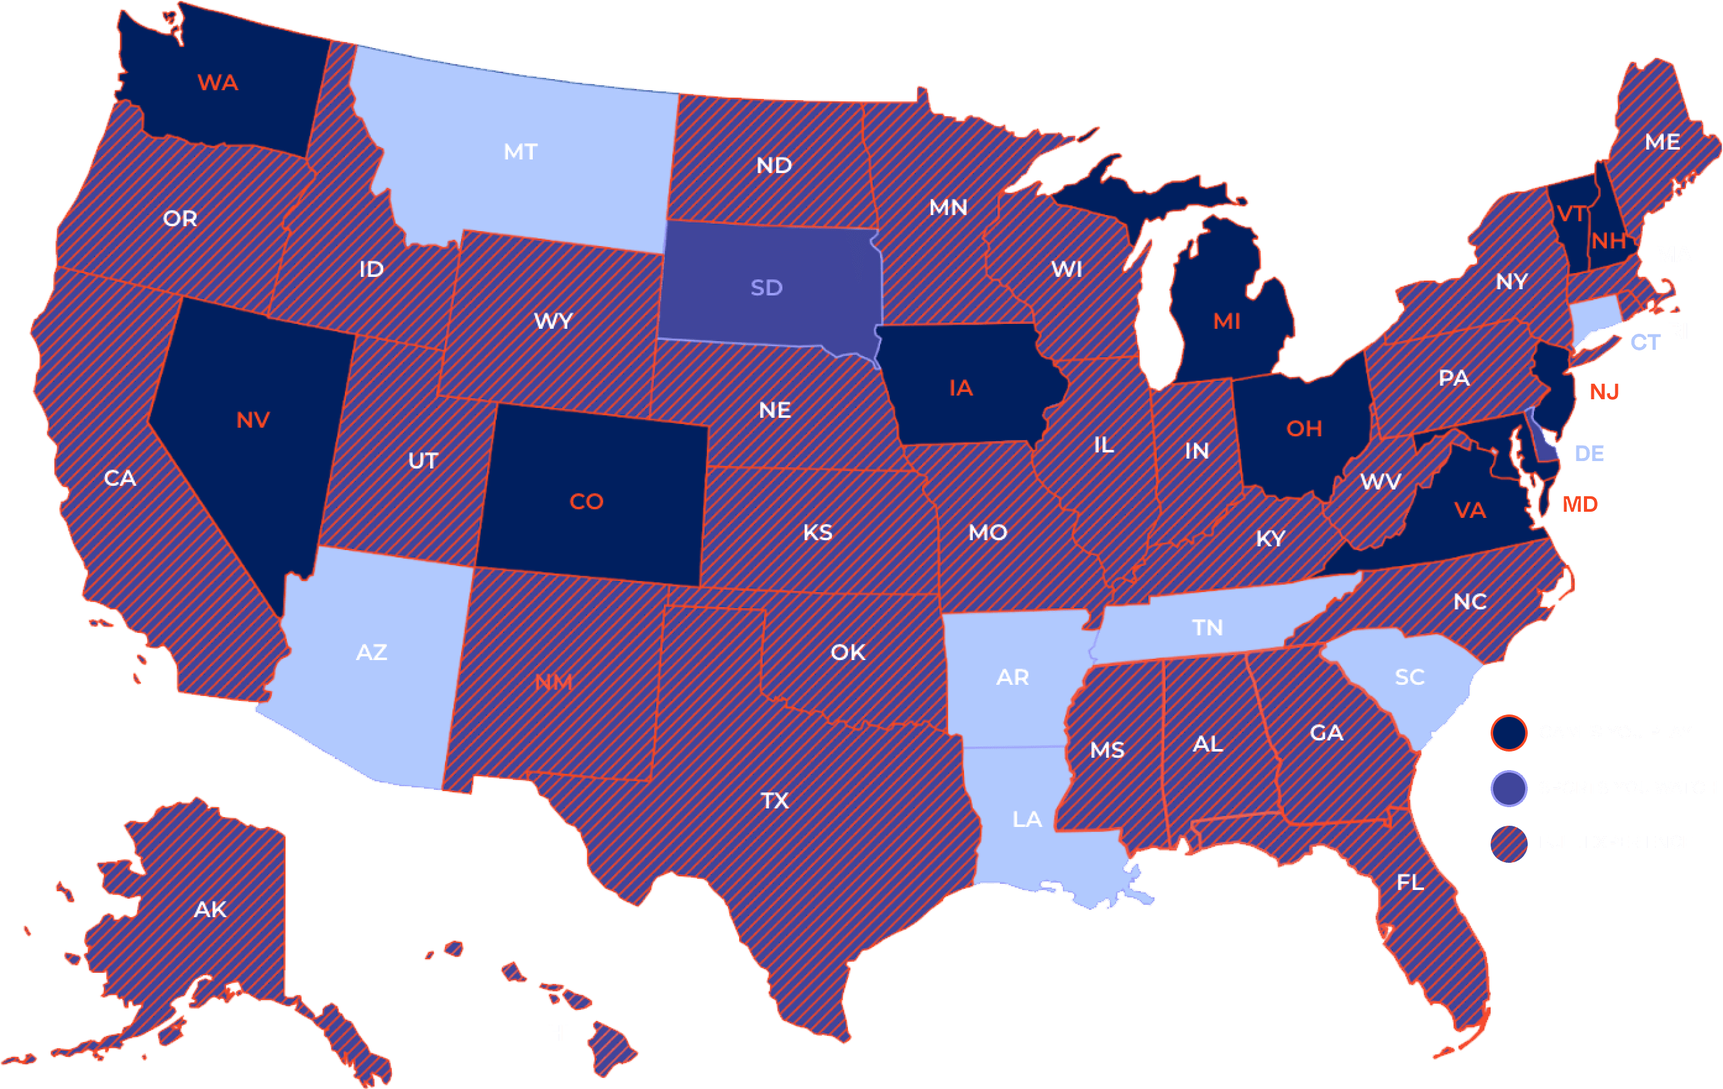
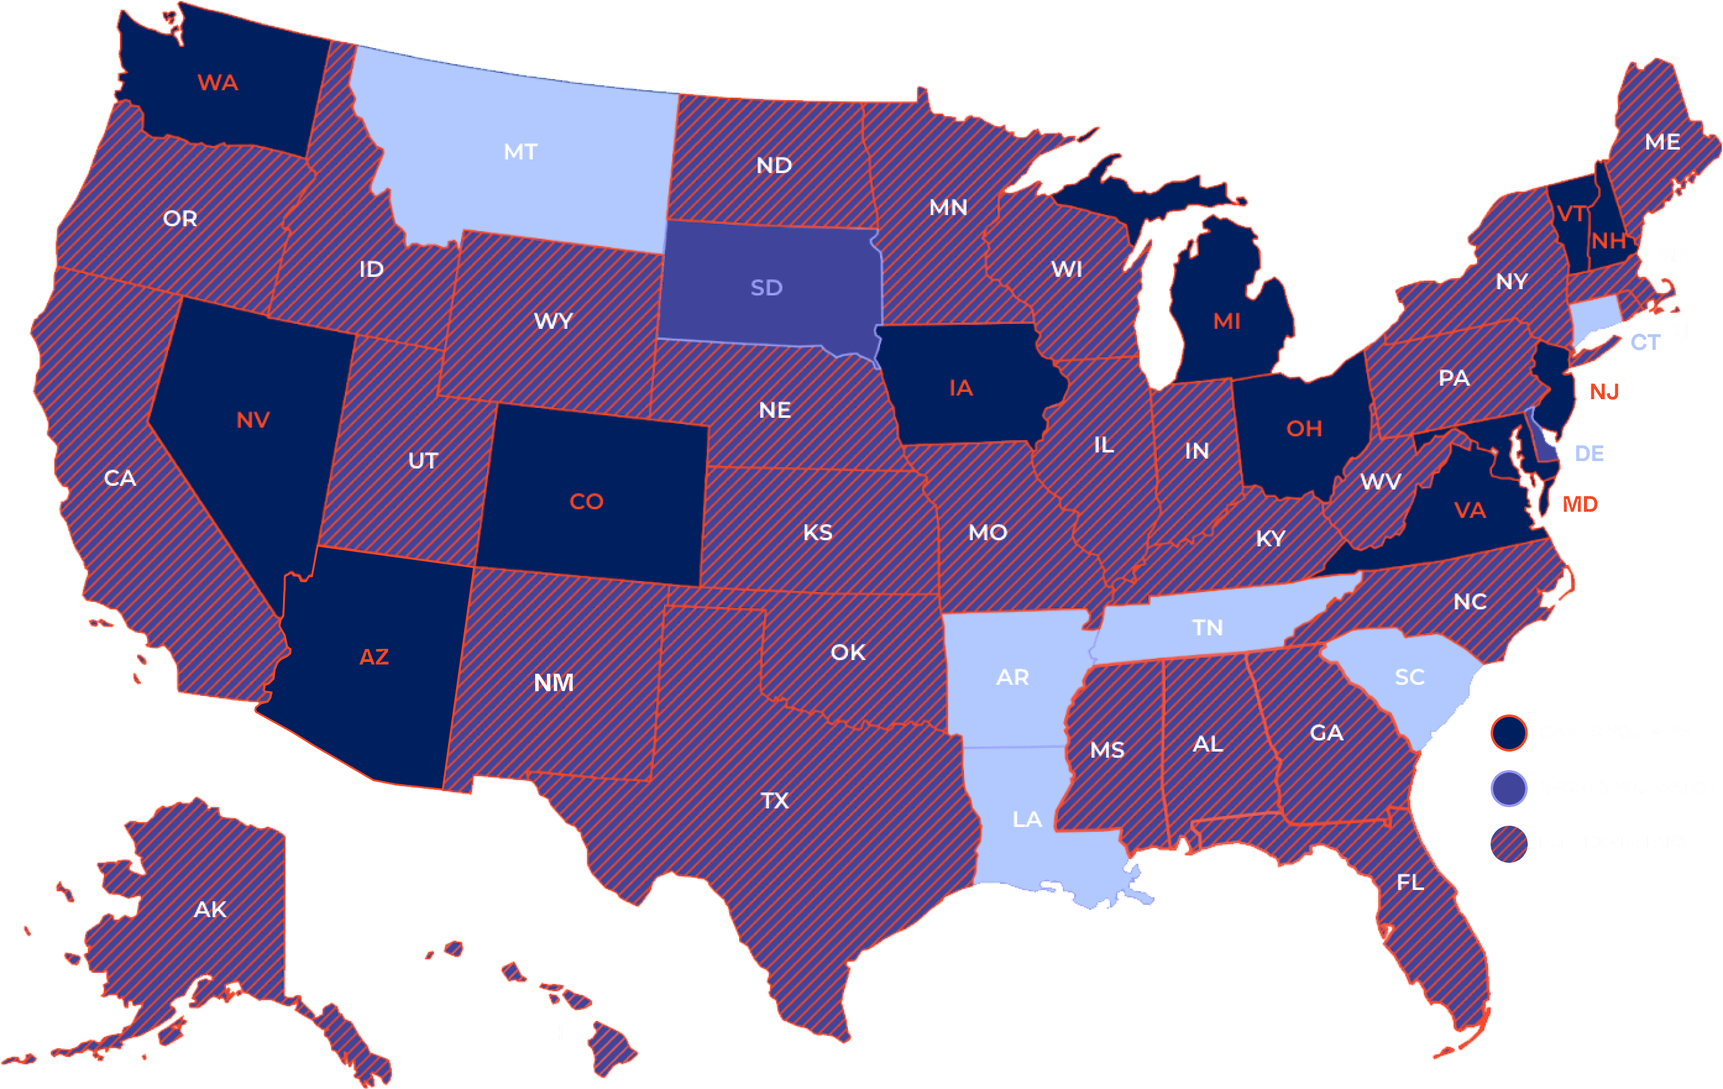
update map states

Changed region(s): [[0.1248, 0.4994, 0.2808, 0.7491], [0.3121, 0.6243, 0.3433, 0.6555]]

diff --git a/dist/scripts.js b/dist/scripts.js
@@ -1,1 +1,1 @@
-(/Android|webOS|iPhone|iPad|iPod|BlackBerry|IEMobile|Opera Mini/i.test(navigator.userAgent)||$(window).width()<575)&&$(".animate").removeClass("animate");let previousY={},previousRatio={};const thresholdArray=e=>Array(e+1).fill(0).map(((a,o)=>o/e||0));function handleIntersection(e,a){e.forEach((e=>{const a=e.boundingClientRect.y,o=e.intersectionRatio;if(e.intersectionRatio>0){let i="";a<previousY[e.target.id]||0===previousY[e.target.id]&&a>0?o>previousRatio[e.target.id]?(i=e.target.id+" Scrolling down enter",$(e.target).addClass("animated-in")):(i=e.target.id+" Scrolling down leave",$(e.target).addClass("animated-out")):a>previousY[e.target.id]&&(o<previousRatio[e.target.id]?(i=e.target.id+" Scrolling up leave",$(e.target).removeClass("animated-in")):(i=e.target.id+" Scrolling up enter",$(e.target).removeClass("animated-out"))),previousY[e.target.id]=a,previousRatio[e.target.id]=o}}))}window.addEventListener("load",(function(){$("#header").addClass("animated");const e=document.querySelectorAll("[data-animable]"),a=new IntersectionObserver(handleIntersection,{root:null,threshold:[.25,.75]});e.forEach((e=>{previousY[e.id]=0,previousRatio[e.id]=0,a.observe(e)})),function(e){e(document).ready((function(){var a,o,i,s;e("video").length&&(e("video").each((function(){e(this).attr("webkit-playsinline",""),e(this).attr("playsinline",""),e(this).attr("muted","muted"),e(this).attr("id","loadvideo"),document.getElementById("loadvideo").load()})),e(window).scroll((function(){e("video").each((function(){var t;1==(a=e(t=this).offset().top,o=a+e(t).outerHeight(),i=e(window).scrollTop(),s=i+e(window).height(),o>i&&a<s)?e(this)[0].play():e(this)[0].pause()}))})))}))}(jQuery);anime.timeline({direction:"normal",autoplay:!0,loop:!0}).add({targets:"#games .container-blocks .blocks",translateY:[0,30],opacity:[0,1],easing:"easeInQuad",duration:400,delay:anime.stagger(50)}).add({targets:"#games .container-blocks .blocks",translateY:30,opacity:1,easing:"easeInQuad",duration:2500,changeComplete:()=>{$("#games .container-blocks.first").addClass("hide"),$("#games .container-blocks.second").removeClass("hide")}}).add({targets:"#games .container-blocks .blocks",translateY:[0,30],opacity:[0,1],easing:"easeInQuad",duration:400,delay:anime.stagger(50)}).add({targets:"#games .container-blocks .blocks",translateY:30,opacity:1,easing:"easeInQuad",duration:2500,changeComplete:()=>{$("#games .container-blocks.first").removeClass("hide"),$("#games .container-blocks.second").addClass("hide")}});var o="https://www.linkedin.com/jobs/view/3472080133/";$("#states-select").change((function(){"select"==$(this).val()?($("#submit-state").prop("disabled",!0),$(".option-display.games").addClass("hide"),$(".option-display.sports").addClass("hide"),$(".option-display.full").addClass("hide"),$(".option-display.not-offered").addClass("hide"),$(".contact-mail").addClass("hide"),$("#states-form").attr("action",o),$(".disclaimer").removeClass("show")):"WA"==$(this).val()||"NV"==$(this).val()||"CO"==$(this).val()||"IA"==$(this).val()||"MI"==$(this).val()||"OH"==$(this).val()||"VA"==$(this).val()||"MD"==$(this).val()||"NJ"==$(this).val()||"NH"==$(this).val()||"VT"==$(this).val()?($(".option-display.games").removeClass("hide"),$(".option-display.sports").addClass("hide"),$(".option-display.full").addClass("hide"),$(".option-display.not-offered").addClass("hide"),$("#submit-state").prop("disabled",!1),$(".contact-mail").addClass("hide"),$("#states-form").attr("action",o),$(".disclaimer").removeClass("show")):"SD"==$(this).val()||"DE"==$(this).val()?($(".option-display.sports").removeClass("hide"),$(".option-display.games").addClass("hide"),$(".option-display.full").addClass("hide"),$(".option-display.not-offered").addClass("hide"),$("#submit-state").prop("disabled",!1),$(".contact-mail").addClass("hide"),$("#states-form").attr("action",o),$(".disclaimer").removeClass("show")):"AZ"==$(this).val()||"MT"==$(this).val()||"AR"==$(this).val()||"LA"==$(this).val()||"TN"==$(this).val()||"SC"==$(this).val()||"CT"==$(this).val()?($(".option-display.sports").addClass("hide"),$(".option-display.games").addClass("hide"),$(".option-display.full").addClass("hide"),$(".option-display.not-offered").removeClass("hide"),$("#submit-state").prop("disabled",!0),$(".contact-mail").addClass("hide"),$("#states-form").attr("action",o),$(".disclaimer").removeClass("show")):"CA"==$(this).val()?($(".option-display.full").removeClass("hide"),$(".option-display.sports").addClass("hide"),$(".option-display.games").addClass("hide"),$(".option-display.not-offered").addClass("hide"),$("#submit-state").prop("disabled",!1),$("#states-form").attr("action","https://www.linkedin.com/jobs/view/3430512566/?eBP=JOB_SEARCH_ORGANIC&recommendedFlavor=IN_NETWORK&refId=G50fpkbGhNNLn3sug3eRlA%3D%3D&trackingId=3IpRdQFPy%2F6P4iAy1VswyQ%3D%3D&trk=flagship3_search_srp_jobs"),$(".contact-mail").addClass("hide"),$(".disclaimer").addClass("show"),$(".contact-mail.california").removeClass("hide")):"PA"==$(this).val()?($(".option-display.full").removeClass("hide"),$(".option-display.sports").addClass("hide"),$(".option-display.games").addClass("hide"),$(".option-display.not-offered").addClass("hide"),$("#submit-state").prop("disabled",!1),$("#states-form").attr("action","https://www.linkedin.com/jobs/view/3431737768/?eBP=JOB_SEARCH_ORGANIC&recommendedFlavor=IN_NETWORK&refId=G50fpkbGhNNLn3sug3eRlA%3D%3D&trackingId=chJhbG4eDtQgGGABW2PVsQ%3D%3D&trk=flagship3_search_srp_jobs"),$(".contact-mail").addClass("hide"),$(".disclaimer").addClass("show"),$(".contact-mail.pennsylvania").removeClass("hide")):($(".option-display.full").removeClass("hide"),$(".option-display.sports").addClass("hide"),$(".option-display.games").addClass("hide"),$(".option-display.not-offered").addClass("hide"),$("#submit-state").prop("disabled",!1),$(".contact-mail").addClass("hide"),$("#states-form").attr("action",o),$(".disclaimer").removeClass("show"))}))})),$(".faq-heading").click((function(){$(this).parent("li").toggleClass("the-active").find(".faq-text").slideToggle()})),$("#video .volume").on("click",(function(){$("#video .placeholder").prop("muted")?($("#video .placeholder").prop("muted",!1),$("#video .volume").removeClass("muted")):($("#video .placeholder").prop("muted",!0),$("#video .volume").addClass("muted"))}));var videos=['<iframe\n      id="video-0"\n      class="video-iframe"\n      width="100%"\n      height="300"\n      allowscriptaccess="always"\n      src="https://www.youtube.com/embed/DjZWyOPQJcU?start=1"\n      frameborder="0"\n      allow="accelerometer; autoplay; clipboard-write; encrypted-media; gyroscope; picture-in-picture"\n      allowfullscreen\n    ></iframe>','<iframe\n      id="video-1"\n      class="video-iframe"\n      src="//content.jwplatform.com/players/ZppCgNir-YrbGYzGZ.html"\n      width="100%"\n      height="300"\n      allowscriptaccess="always"\n      frameborder="0"\n      allow="accelerometer; clipboard-write; encrypted-media; gyroscope; picture-in-picture"\n      allowfullscreen\n    ></iframe>','<iframe\n      id="video-2"\n      class="video-iframe"\n      src="https://www.youtube.com/embed/amHTD3bF1Zo"\n      width="100%"\n      height="300"\n      allowscriptaccess="always"\n      frameborder="0"\n      allow="accelerometer; autoplay; clipboard-write; encrypted-media; gyroscope; picture-in-picture"\n      allowfullscreen\n  ></iframe>','<iframe\n      id="video-3"\n      class="video-iframe"\n      src="https://www.bloomberg.com/multimedia/api/embed/iframe?id=b2d1e5d1-4198-41d4-a6bf-03d3d7f3d86d"\n      width="100%"\n      height="300"\n      allowscriptaccess="always"\n      frameborder="0"\n      allow="accelerometer; autoplay; clipboard-write; encrypted-media; gyroscope; picture-in-picture"\n      allowfullscreen\n    ></iframe>'];$((function(){$(".playvideo").on("click",(function(){$(this).next(".video-holder").css("display","none"),$(this).css("display","none");var e=$(this).prev(".video-iframe").attr("src").indexOf("?")>-1?"&":"?";$(this).prev(".video-iframe").attr("src",$(this).prev(".video-iframe").attr("src")+e+"autoplay=1")})),$("#carouselExampleCaption").on("slide.bs.carousel",(function(e){$(`#video-${e.from}`).replaceWith(videos[e.from])}))}));var controller=new ScrollMagic.Controller,pinIntroScene=new ScrollMagic.Scene({triggerElement:"#hero.hero-homepage",triggerHook:0,duration:1200}).setPin("#hero.hero-homepage").addTo(controller),ourScene=new ScrollMagic.Scene({duration:3e3,triggerElement:"#hero.hero-homepage",triggerHook:0,offset:300}).setClassToggle(".container-screens.col-one.home","move-up").addTo(controller),ourScene2=new ScrollMagic.Scene({duration:3e3,triggerElement:"#hero.hero-homepage",triggerHook:0,offset:300}).setClassToggle(".container-screens.col-two.home","move-down").addTo(controller),controllerAbout=new ScrollMagic.Controller,pinIntroSceneAbout=new ScrollMagic.Scene({triggerElement:"#hero.hero-about",triggerHook:0,duration:1500}).setPin("#hero.hero-about").addTo(controllerAbout),ourScene3=new ScrollMagic.Scene({duration:3500,triggerElement:"#hero.hero-about",triggerHook:0,offset:300}).setClassToggle(".container-screens.col-one.about","move-up").addTo(controllerAbout),ourScene4=new ScrollMagic.Scene({duration:3500,triggerElement:"#hero.hero-about",triggerHook:0,offset:300}).setClassToggle(".container-screens.col-two.about","move-down").addTo(controllerAbout);$(window).scroll((function(){$(window).scrollTop()>=60?$("#header-nav").addClass("fixed"):$("#header-nav").removeClass("fixed")})),$(".slider-nav").slick({slidesToShow:2,slidesToScroll:1,dots:!1,centerMode:!1,focusOnSelect:!1,arrows:!0,autoplay:!1,autoplaySpeed:6e3,pauseOnHover:!1,draggable:!1,responsive:[{breakpoint:767,settings:{slidesToShow:1}}]}),$(".team-slider").slick({centerMode:!0,centerPadding:"50px",slidesToShow:2,speed:500,autoplay:!0,autoplaySpeed:5e3,pauseOnHover:!1,arrows:!0,draggable:!1,responsive:[{breakpoint:991,settings:{centerMode:!0,centerPadding:"40px",slidesToShow:1}}]}),$(".team-slider").on("beforeChange",(function(e,{slideCount:a},o,i){let s=[i,i-a,i+a].map((e=>`[data-slick-index="${e}"]`)).join(", ");$(".slick-now").removeClass("slick-now"),$(s).next().addClass("slick-now"),$(".prev-now").removeClass("prev-now"),$(s).prev().addClass("prev-now")})),$('[data-slick-index="0"]').addClass("slick-now"),$('[data-slick-index="0"]').prev().addClass("prev-now"),$(document).ready((function(){$("#slider-app").position().top,$(window).height();$(window).on("scroll",(function(){$(window).scrollTop()}))}));
+(/Android|webOS|iPhone|iPad|iPod|BlackBerry|IEMobile|Opera Mini/i.test(navigator.userAgent)||$(window).width()<575)&&$(".animate").removeClass("animate");let previousY={},previousRatio={};const thresholdArray=e=>Array(e+1).fill(0).map(((a,o)=>o/e||0));function handleIntersection(e,a){e.forEach((e=>{const a=e.boundingClientRect.y,o=e.intersectionRatio;if(e.intersectionRatio>0){let i="";a<previousY[e.target.id]||0===previousY[e.target.id]&&a>0?o>previousRatio[e.target.id]?(i=e.target.id+" Scrolling down enter",$(e.target).addClass("animated-in")):(i=e.target.id+" Scrolling down leave",$(e.target).addClass("animated-out")):a>previousY[e.target.id]&&(o<previousRatio[e.target.id]?(i=e.target.id+" Scrolling up leave",$(e.target).removeClass("animated-in")):(i=e.target.id+" Scrolling up enter",$(e.target).removeClass("animated-out"))),previousY[e.target.id]=a,previousRatio[e.target.id]=o}}))}window.addEventListener("load",(function(){$("#header").addClass("animated");const e=document.querySelectorAll("[data-animable]"),a=new IntersectionObserver(handleIntersection,{root:null,threshold:[.25,.75]});e.forEach((e=>{previousY[e.id]=0,previousRatio[e.id]=0,a.observe(e)})),function(e){e(document).ready((function(){var a,o,i,s;e("video").length&&(e("video").each((function(){e(this).attr("webkit-playsinline",""),e(this).attr("playsinline",""),e(this).attr("muted","muted"),e(this).attr("id","loadvideo"),document.getElementById("loadvideo").load()})),e(window).scroll((function(){e("video").each((function(){var t;1==(a=e(t=this).offset().top,o=a+e(t).outerHeight(),i=e(window).scrollTop(),s=i+e(window).height(),o>i&&a<s)?e(this)[0].play():e(this)[0].pause()}))})))}))}(jQuery);anime.timeline({direction:"normal",autoplay:!0,loop:!0}).add({targets:"#games .container-blocks .blocks",translateY:[0,30],opacity:[0,1],easing:"easeInQuad",duration:400,delay:anime.stagger(50)}).add({targets:"#games .container-blocks .blocks",translateY:30,opacity:1,easing:"easeInQuad",duration:2500,changeComplete:()=>{$("#games .container-blocks.first").addClass("hide"),$("#games .container-blocks.second").removeClass("hide")}}).add({targets:"#games .container-blocks .blocks",translateY:[0,30],opacity:[0,1],easing:"easeInQuad",duration:400,delay:anime.stagger(50)}).add({targets:"#games .container-blocks .blocks",translateY:30,opacity:1,easing:"easeInQuad",duration:2500,changeComplete:()=>{$("#games .container-blocks.first").removeClass("hide"),$("#games .container-blocks.second").addClass("hide")}});var o="https://www.linkedin.com/jobs/view/3566908844/";$("#states-select").change((function(){"select"==$(this).val()?($("#submit-state").prop("disabled",!0),$(".option-display.games").addClass("hide"),$(".option-display.sports").addClass("hide"),$(".option-display.full").addClass("hide"),$(".option-display.not-offered").addClass("hide"),$(".contact-mail").addClass("hide"),$("#states-form").attr("action",o),$(".disclaimer").removeClass("show")):"AZ"==$(this).val()||"WA"==$(this).val()||"NV"==$(this).val()||"CO"==$(this).val()||"IA"==$(this).val()||"MI"==$(this).val()||"OH"==$(this).val()||"VA"==$(this).val()||"MD"==$(this).val()||"NJ"==$(this).val()||"NH"==$(this).val()||"VT"==$(this).val()?($(".option-display.games").removeClass("hide"),$(".option-display.sports").addClass("hide"),$(".option-display.full").addClass("hide"),$(".option-display.not-offered").addClass("hide"),$("#submit-state").prop("disabled",!1),$(".contact-mail").addClass("hide"),$("#states-form").attr("action",o),$(".disclaimer").removeClass("show")):"SD"==$(this).val()||"DE"==$(this).val()?($(".option-display.sports").removeClass("hide"),$(".option-display.games").addClass("hide"),$(".option-display.full").addClass("hide"),$(".option-display.not-offered").addClass("hide"),$("#submit-state").prop("disabled",!1),$(".contact-mail").addClass("hide"),$("#states-form").attr("action",o),$(".disclaimer").removeClass("show")):"MT"==$(this).val()||"AR"==$(this).val()||"LA"==$(this).val()||"TN"==$(this).val()||"SC"==$(this).val()||"CT"==$(this).val()?($(".option-display.sports").addClass("hide"),$(".option-display.games").addClass("hide"),$(".option-display.full").addClass("hide"),$(".option-display.not-offered").removeClass("hide"),$("#submit-state").prop("disabled",!0),$(".contact-mail").addClass("hide"),$("#states-form").attr("action",o),$(".disclaimer").removeClass("show")):"CA"==$(this).val()?($(".option-display.full").removeClass("hide"),$(".option-display.sports").addClass("hide"),$(".option-display.games").addClass("hide"),$(".option-display.not-offered").addClass("hide"),$("#submit-state").prop("disabled",!1),$("#states-form").attr("action","https://www.linkedin.com/jobs/view/3430512566/?eBP=JOB_SEARCH_ORGANIC&recommendedFlavor=IN_NETWORK&refId=G50fpkbGhNNLn3sug3eRlA%3D%3D&trackingId=3IpRdQFPy%2F6P4iAy1VswyQ%3D%3D&trk=flagship3_search_srp_jobs"),$(".contact-mail").addClass("hide"),$(".disclaimer").addClass("show"),$(".contact-mail.california").removeClass("hide")):"PA"==$(this).val()?($(".option-display.full").removeClass("hide"),$(".option-display.sports").addClass("hide"),$(".option-display.games").addClass("hide"),$(".option-display.not-offered").addClass("hide"),$("#submit-state").prop("disabled",!1),$("#states-form").attr("action","https://www.linkedin.com/jobs/view/3431737768/?eBP=JOB_SEARCH_ORGANIC&recommendedFlavor=IN_NETWORK&refId=G50fpkbGhNNLn3sug3eRlA%3D%3D&trackingId=chJhbG4eDtQgGGABW2PVsQ%3D%3D&trk=flagship3_search_srp_jobs"),$(".contact-mail").addClass("hide"),$(".disclaimer").addClass("show"),$(".contact-mail.pennsylvania").removeClass("hide")):($(".option-display.full").removeClass("hide"),$(".option-display.sports").addClass("hide"),$(".option-display.games").addClass("hide"),$(".option-display.not-offered").addClass("hide"),$("#submit-state").prop("disabled",!1),$(".contact-mail").addClass("hide"),$("#states-form").attr("action",o),$(".disclaimer").removeClass("show"))}))})),$(".faq-heading").click((function(){$(this).parent("li").toggleClass("the-active").find(".faq-text").slideToggle()})),$("#video .volume").on("click",(function(){$("#video .placeholder").prop("muted")?($("#video .placeholder").prop("muted",!1),$("#video .volume").removeClass("muted")):($("#video .placeholder").prop("muted",!0),$("#video .volume").addClass("muted"))}));var videos=['<iframe\n      id="video-0"\n      class="video-iframe"\n      width="100%"\n      height="300"\n      allowscriptaccess="always"\n      src="https://www.youtube.com/embed/DjZWyOPQJcU?start=1"\n      frameborder="0"\n      allow="accelerometer; autoplay; clipboard-write; encrypted-media; gyroscope; picture-in-picture"\n      allowfullscreen\n    ></iframe>','<iframe\n      id="video-1"\n      class="video-iframe"\n      src="//content.jwplatform.com/players/ZppCgNir-YrbGYzGZ.html"\n      width="100%"\n      height="300"\n      allowscriptaccess="always"\n      frameborder="0"\n      allow="accelerometer; clipboard-write; encrypted-media; gyroscope; picture-in-picture"\n      allowfullscreen\n    ></iframe>','<iframe\n      id="video-2"\n      class="video-iframe"\n      src="https://www.youtube.com/embed/amHTD3bF1Zo"\n      width="100%"\n      height="300"\n      allowscriptaccess="always"\n      frameborder="0"\n      allow="accelerometer; autoplay; clipboard-write; encrypted-media; gyroscope; picture-in-picture"\n      allowfullscreen\n  ></iframe>','<iframe\n      id="video-3"\n      class="video-iframe"\n      src="https://www.bloomberg.com/multimedia/api/embed/iframe?id=b2d1e5d1-4198-41d4-a6bf-03d3d7f3d86d"\n      width="100%"\n      height="300"\n      allowscriptaccess="always"\n      frameborder="0"\n      allow="accelerometer; autoplay; clipboard-write; encrypted-media; gyroscope; picture-in-picture"\n      allowfullscreen\n    ></iframe>'];$((function(){$(".playvideo").on("click",(function(){$(this).next(".video-holder").css("display","none"),$(this).css("display","none");var e=$(this).prev(".video-iframe").attr("src").indexOf("?")>-1?"&":"?";$(this).prev(".video-iframe").attr("src",$(this).prev(".video-iframe").attr("src")+e+"autoplay=1")})),$("#carouselExampleCaption").on("slide.bs.carousel",(function(e){$(`#video-${e.from}`).replaceWith(videos[e.from])}))}));var controller=new ScrollMagic.Controller,pinIntroScene=new ScrollMagic.Scene({triggerElement:"#hero.hero-homepage",triggerHook:0,duration:1200}).setPin("#hero.hero-homepage").addTo(controller),ourScene=new ScrollMagic.Scene({duration:3e3,triggerElement:"#hero.hero-homepage",triggerHook:0,offset:300}).setClassToggle(".container-screens.col-one.home","move-up").addTo(controller),ourScene2=new ScrollMagic.Scene({duration:3e3,triggerElement:"#hero.hero-homepage",triggerHook:0,offset:300}).setClassToggle(".container-screens.col-two.home","move-down").addTo(controller),controllerAbout=new ScrollMagic.Controller,pinIntroSceneAbout=new ScrollMagic.Scene({triggerElement:"#hero.hero-about",triggerHook:0,duration:1500}).setPin("#hero.hero-about").addTo(controllerAbout),ourScene3=new ScrollMagic.Scene({duration:3500,triggerElement:"#hero.hero-about",triggerHook:0,offset:300}).setClassToggle(".container-screens.col-one.about","move-up").addTo(controllerAbout),ourScene4=new ScrollMagic.Scene({duration:3500,triggerElement:"#hero.hero-about",triggerHook:0,offset:300}).setClassToggle(".container-screens.col-two.about","move-down").addTo(controllerAbout);$(window).scroll((function(){$(window).scrollTop()>=60?$("#header-nav").addClass("fixed"):$("#header-nav").removeClass("fixed")})),$(".slider-nav").slick({slidesToShow:2,slidesToScroll:1,dots:!1,centerMode:!1,focusOnSelect:!1,arrows:!0,autoplay:!1,autoplaySpeed:6e3,pauseOnHover:!1,draggable:!1,responsive:[{breakpoint:767,settings:{slidesToShow:1}}]}),$(".team-slider").slick({centerMode:!0,centerPadding:"50px",slidesToShow:2,speed:500,autoplay:!0,autoplaySpeed:5e3,pauseOnHover:!1,arrows:!0,draggable:!1,responsive:[{breakpoint:991,settings:{centerMode:!0,centerPadding:"40px",slidesToShow:1}}]}),$(".team-slider").on("beforeChange",(function(e,{slideCount:a},o,i){let s=[i,i-a,i+a].map((e=>`[data-slick-index="${e}"]`)).join(", ");$(".slick-now").removeClass("slick-now"),$(s).next().addClass("slick-now"),$(".prev-now").removeClass("prev-now"),$(s).prev().addClass("prev-now")})),$('[data-slick-index="0"]').addClass("slick-now"),$('[data-slick-index="0"]').prev().addClass("prev-now"),$(document).ready((function(){$("#slider-app").position().top,$(window).height();$(window).on("scroll",(function(){$(window).scrollTop()}))}));

diff --git a/src/custom-scripts.js b/src/custom-scripts.js
@@ -158,7 +158,7 @@ window.addEventListener('load', function () {
 
     
     // Form Variables, like Actions to the form
-    var greenhouseAction = 'https://www.linkedin.com/jobs/view/3472080133/';
+    var greenhouseAction = 'https://www.linkedin.com/jobs/view/3566908844/';
     var californiaAction = 'https://www.linkedin.com/jobs/view/3430512566/?eBP=JOB_SEARCH_ORGANIC&recommendedFlavor=IN_NETWORK&refId=G50fpkbGhNNLn3sug3eRlA%3D%3D&trackingId=3IpRdQFPy%2F6P4iAy1VswyQ%3D%3D&trk=flagship3_search_srp_jobs';
     var pennsylvaniaAction = 'https://www.linkedin.com/jobs/view/3431737768/?eBP=JOB_SEARCH_ORGANIC&recommendedFlavor=IN_NETWORK&refId=G50fpkbGhNNLn3sug3eRlA%3D%3D&trackingId=chJhbG4eDtQgGGABW2PVsQ%3D%3D&trk=flagship3_search_srp_jobs';
     
@@ -174,6 +174,7 @@ window.addEventListener('load', function () {
       $('#states-form').attr('action', greenhouseAction);
       $(".disclaimer").removeClass("show");
     } else if (
+      $(this).val() == 'AZ' ||
       $(this).val() == 'WA' ||
       $(this).val() == 'NV' ||
       $(this).val() == 'CO' ||
@@ -204,7 +205,6 @@ window.addEventListener('load', function () {
       $('#states-form').attr('action', greenhouseAction);
       $(".disclaimer").removeClass("show");
     } else if (
-      $(this).val() == 'AZ' ||
       $(this).val() == 'MT' ||
       $(this).val() == 'AR' ||
       $(this).val() == 'LA' ||

diff --git a/pages/ambassadors.html b/pages/ambassadors.html
@@ -436,7 +436,7 @@
                 in one before you apply!
               </p>
               <form target="_blank" id="states-form"
-                action="https://www.linkedin.com/jobs/view/3472080133/"
+                action="https://www.linkedin.com/jobs/view/3566908844/"
               >
                 <select name="states" id="states-select">
                   <option value="select" class="games">
